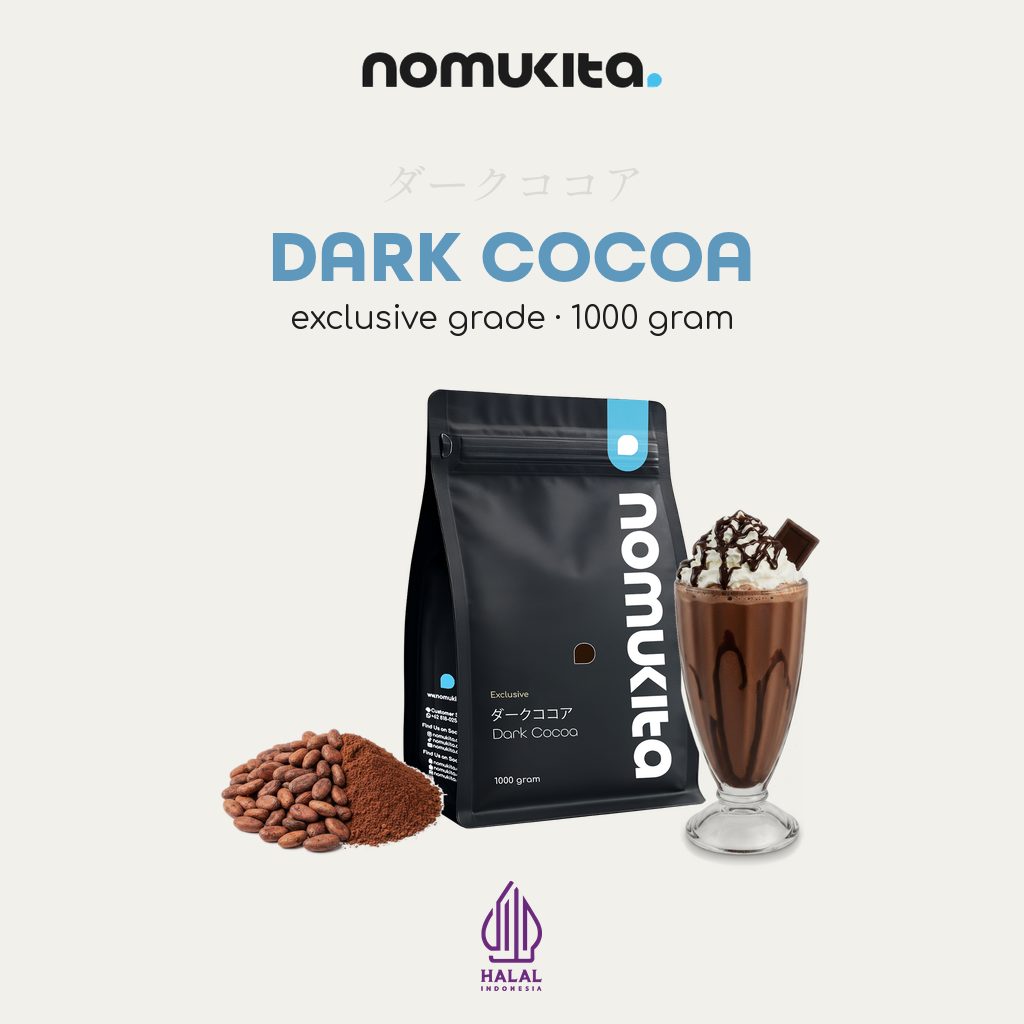
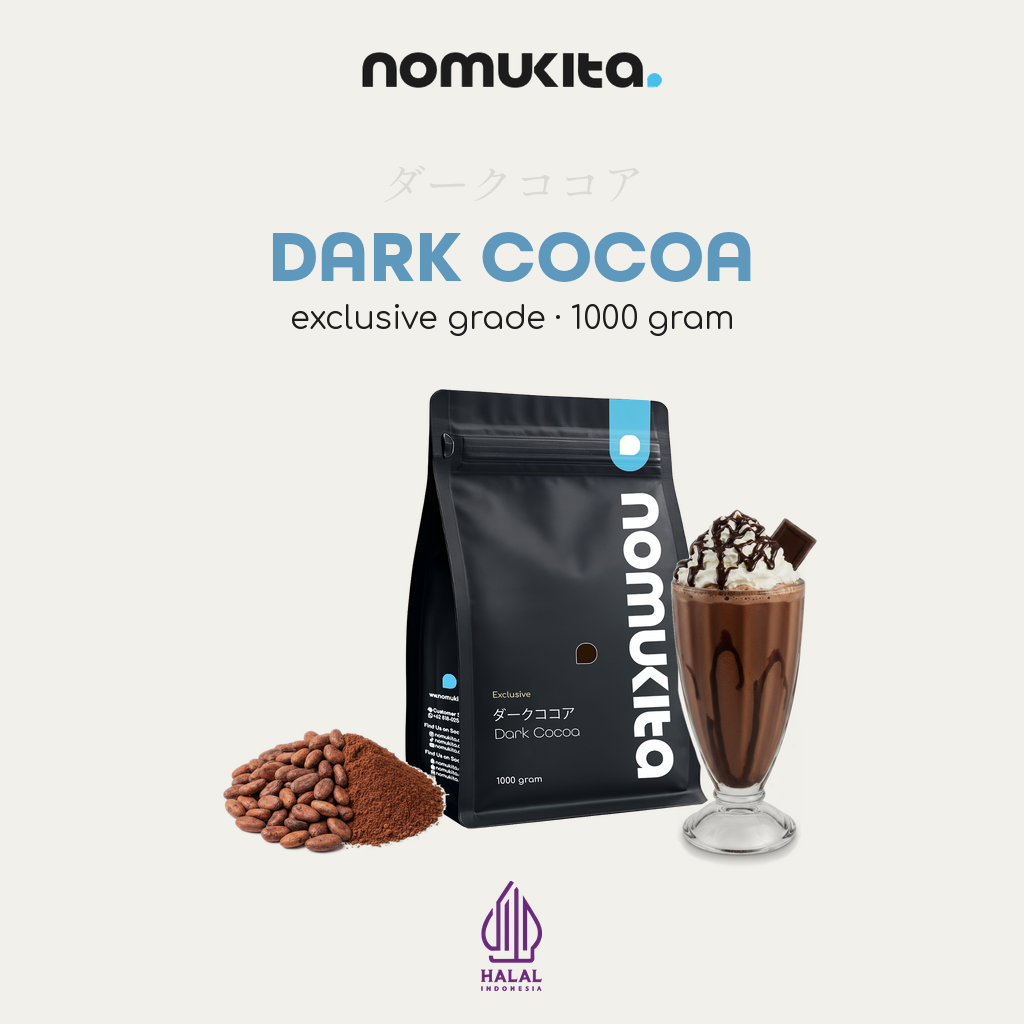
Close the gap between the glass and the packaging
GLASS_OVERLAP of 26 px comes from a reference whose glass is a straight sided
tumbler, where the left edge sits in the same place at every height, so 26 px is
26 px of contact from rim to base. A footed glass narrows to a waist while the
pouch edge stays put, and bone white slips between them over the lower third:
15 px on Dark Cocoa, 20 px on Pure Dark Cocoa. The glass reads as floating
beside the packaging rather than resting against it.

Measured over the bottom 100 px of the pouch, the widest gap across the twelve
approved slides is 36 px, and Avocado, the slide the customer pointed at, is 35.
That becomes the tolerance. Pure Dark Cocoa at 50 and Dark Cocoa at 41 are the
only two outside it, and each is nudged left by its excess only. The twelve
approved slides are unchanged, checked by md5.

The nudge also exposed a bookkeeping trap: layers_intact only permits a photo
layer to brighten inside the columns where it genuinely stands in front of the
pouch, and that column has to move with the glass, or legitimate glass pixels
are reported as a pale patch painted over the packaging.

Claude-Session: https://claude.ai/code/session_01A4GLsk6vKeeUp3C5p2a7yr

diff --git a/nomukita-carousel/render_one.py b/nomukita-carousel/render_one.py
@@ -47,10 +47,54 @@ def prop_height(slug):
     return round(PROP_CM[slug] * PX_PER_CM)
 
 
+# Celah terlebar yang masih boleh terbuka antara sisi kanan kemasan dan sisi kiri
+# gelas, diukur pada 100 px terbawah kemasan - bagian tempat gelas berkaki mulai
+# menjauh karena pinggangnya mengecil sementara tepi pouch tetap di tempatnya.
+#
+# Angkanya bukan selera: 36 px adalah celah TERLEBAR di antara dua belas slide
+# yang sudah disetujui pelanggan (Lemon Grass 36, Avocado 35 - dan Avocado justru
+# slide yang dijadikan acuan). Jadi batas ini diambil dari pekerjaan yang sudah
+# diterima, bukan dikarang, dan menurut konstruksinya kedua belas slide itu tidak
+# berubah sedikit pun.
+#
+# Yang melewatinya cuma dua: Pure Dark Cocoa 50 px dan Dark Cocoa 41 px, keduanya
+# bergelas kaki. Itu yang terbaca sebagai gelas melayang di sebelah kemasan.
+GAP_MAX = 36
+GAP_BAND = 120          # setinggi apa pita ukurnya, dari alas kemasan ke atas
+
+
+def _mask(im):
+    import numpy as np
+    return np.abs(np.asarray(im.convert('RGB')).astype(int) - np.array(bs.BG)).max(2) > 18
+
+
+def glass_gap(pouch_path, glass_img, gh, overlap):
+    """Celah terlebar antara kemasan dan gelas pada pita bawah, dalam piksel."""
+    import numpy as np
+    pw = round(POUCH_H * 0.695)
+    x0 = 200                                  # sembarang; yang diukur selisihnya
+    cp = Image.new('RGBA', (1024, 1024), bs.BG + (255,))
+    bs.place(cp, pouch_path, POUCH_H, left=x0, bottom=POUCH_BOTTOM)
+    P = _mask(cp)
+    fg = Image.new('RGB', (1024, 1024), bs.BG)
+    photo.place(fg, glass_img, x0 + pw - overlap, BOTTOM, gh, body=True)
+    G = _mask(fg)
+    worst = 0
+    for y in range(POUCH_BOTTOM - GAP_BAND, POUCH_BOTTOM - 20):
+        px = np.nonzero(P[y])[0]
+        gx = np.nonzero(G[y])[0]
+        if len(px) and len(gx):
+            worst = max(worst, int(gx.min()) - int(px.max()) - 1)
+    return worst
+
+
 def build(idx, glass_img, prop_img=None, out='slide.png', slug=None):
     p = bs.PRODUCTS[idx]
     pw = round(POUCH_H * 0.695)
     gw = photo.size_at(glass_img, GLASS_H, body=True)
+    # Gelas digeser ke kiri hanya sebanyak yang diperlukan untuk membawa celahnya
+    # kembali ke dalam batas yang sudah diterima. Nol untuk kedua belas produk lama.
+    nudge = max(0, glass_gap(p['p1000'], glass_img, GLASS_H, GLASS_OVERLAP) - GAP_MAX)
     if prop_img:
         ph = photo.fit(prop_img, prop_height(slug), PROP_MAX_W)
         aw = photo.size_at(prop_img, ph)
@@ -59,7 +103,7 @@ def build(idx, glass_img, prop_img=None, out='slide.png', slug=None):
         overlap = min(48, round(0.28 * aw))
     else:
         ph = aw = overlap = 0
-    x0 = round(512 - (pw + gw - GLASS_OVERLAP - aw + overlap) / 2)
+    x0 = round(512 - (pw + gw - GLASS_OVERLAP - nudge - aw + overlap) / 2)
 
     c = Image.new('RGBA', (1024, 1024), bs.BG + (255,))
     c.alpha_composite(Image.open(f'{bs.ASSETS}/logo_nomukita.png').convert('RGBA'), bs.LOGO_XY)
@@ -82,15 +126,19 @@ def build(idx, glass_img, prop_img=None, out='slide.png', slug=None):
     flat.paste(c, (0, 0), c)
     clean = flat.copy()
 
-    photo.place(flat, glass_img, x0 + pw - GLASS_OVERLAP, BOTTOM, GLASS_H, body=True)
+    photo.place(flat, glass_img, x0 + pw - GLASS_OVERLAP - nudge, BOTTOM, GLASS_H, body=True)
     if prop_img:
         photo.place(flat, prop_img, x0 + overlap - aw, BOTTOM, ph)
 
     flat.paste(clean.crop((0, 0, 1024, TOP_GUARD)), (0, 0))
 
     flat.save(out)
+    # Jendela yang boleh menjadi lebih terang ikut bergeser bersama gelasnya.
+    # Tanpa itu, `nudge` piksel gelas yang memang berdiri DI DEPAN kemasan jatuh
+    # di luar jendela dan dilaporkan sebagai "pale patch" - cacat pembukuan,
+    # bukan cacat gambar.
     return out, layers_intact(clean, flat, [(x0, x0 + overlap),
-                                            (x0 + pw - GLASS_OVERLAP, x0 + pw)])
+                                            (x0 + pw - GLASS_OVERLAP - nudge, x0 + pw)])
 
 
 def layers_intact(clean, final, allowed, margin=6, tol=14):

diff --git a/nomukita-carousel/README.md b/nomukita-carousel/README.md
@@ -871,3 +871,44 @@ ada; cacat ini ketahuan lewat mata, dan begitulah cara memeriksanya.
 
 Empat gambar dihasilkan dalam perbaikan ini, 16 kredit, di atas 32 kredit
 pembuatan pertamanya.
+
+
+### Posisi gelas terhadap kemasan
+
+Pelanggan: gelasnya tidak menempel sempurna dengan kemasannya. Benar, dan
+terukur.
+
+`GLASS_OVERLAP` 26 px diambil dari acuan Matchamu, dan di sana gelasnya tabung
+berdinding lurus: tepi kirinya berada di tempat yang sama pada setiap
+ketinggian, jadi 26 px itu benar-benar 26 px sentuhan dari mulut sampai alas.
+Gelas berkaki tidak begitu. Badannya mengecil ke pinggang sementara tepi kanan
+pouch tetap di tempatnya, dan sepotong latar bone white menyelinap di antara
+keduanya pada sepertiga bawah - 15 px pada Dark Cocoa, 20 px pada Pure Dark
+Cocoa. Gelasnya lalu terbaca melayang di sebelah kemasan, bukan bersandar
+padanya.
+
+Diukur pada 100 px terbawah kemasan, celah terlebar antara sisi kanan kemasan
+dan sisi kiri gelas:
+
+| | celah |
+| --- | --- |
+| Matcha Latte, Premix Matcha, Cookies & Cream | 0 px |
+| Chocolate 9 · Cappuccino 15 · Milk Tea 17 · Teh Tarik 18 | 9-18 px |
+| Frappe Base 26 · Taro 27 · Lemon Tea 28 · Charcoal 29 | 26-29 px |
+| Vanilla 29 · **Avocado 35** · Lemon Grass 36 | sampai 36 px |
+| **Pure Dark Cocoa 50 · Dark Cocoa 41** | di luar rentang |
+
+Batasnya tidak dikarang: 36 px adalah celah terlebar di antara dua belas slide
+yang sudah diterima pelanggan, dan Avocado - slide yang dijadikan acuan - ada di
+35. Yang melewati batas itu digeser ke kiri sebanyak kelebihannya saja. Menurut
+konstruksinya kedua belas slide lama tidak bergeser satu piksel pun, dan itu
+diperiksa dengan membandingkan md5-nya.
+
+Satu jebakan pembukuan ikut terbuka: `layers_intact` hanya mengizinkan lapisan
+foto MEMBUAT TERANG di dalam kolom tempat gelas memang berdiri di depan pouch.
+Kolom itu harus ikut bergeser bersama gelasnya; kalau tidak, piksel gelas yang
+sah dilaporkan sebagai "pale patch of 692 px painted over the pouch" - cacat
+pembukuan, bukan cacat gambar.
+
+Varian kemasan kecil tidak diubah: celahnya diukur juga dan tidak ada yang di
+luar rentang slide yang sudah diterima.
